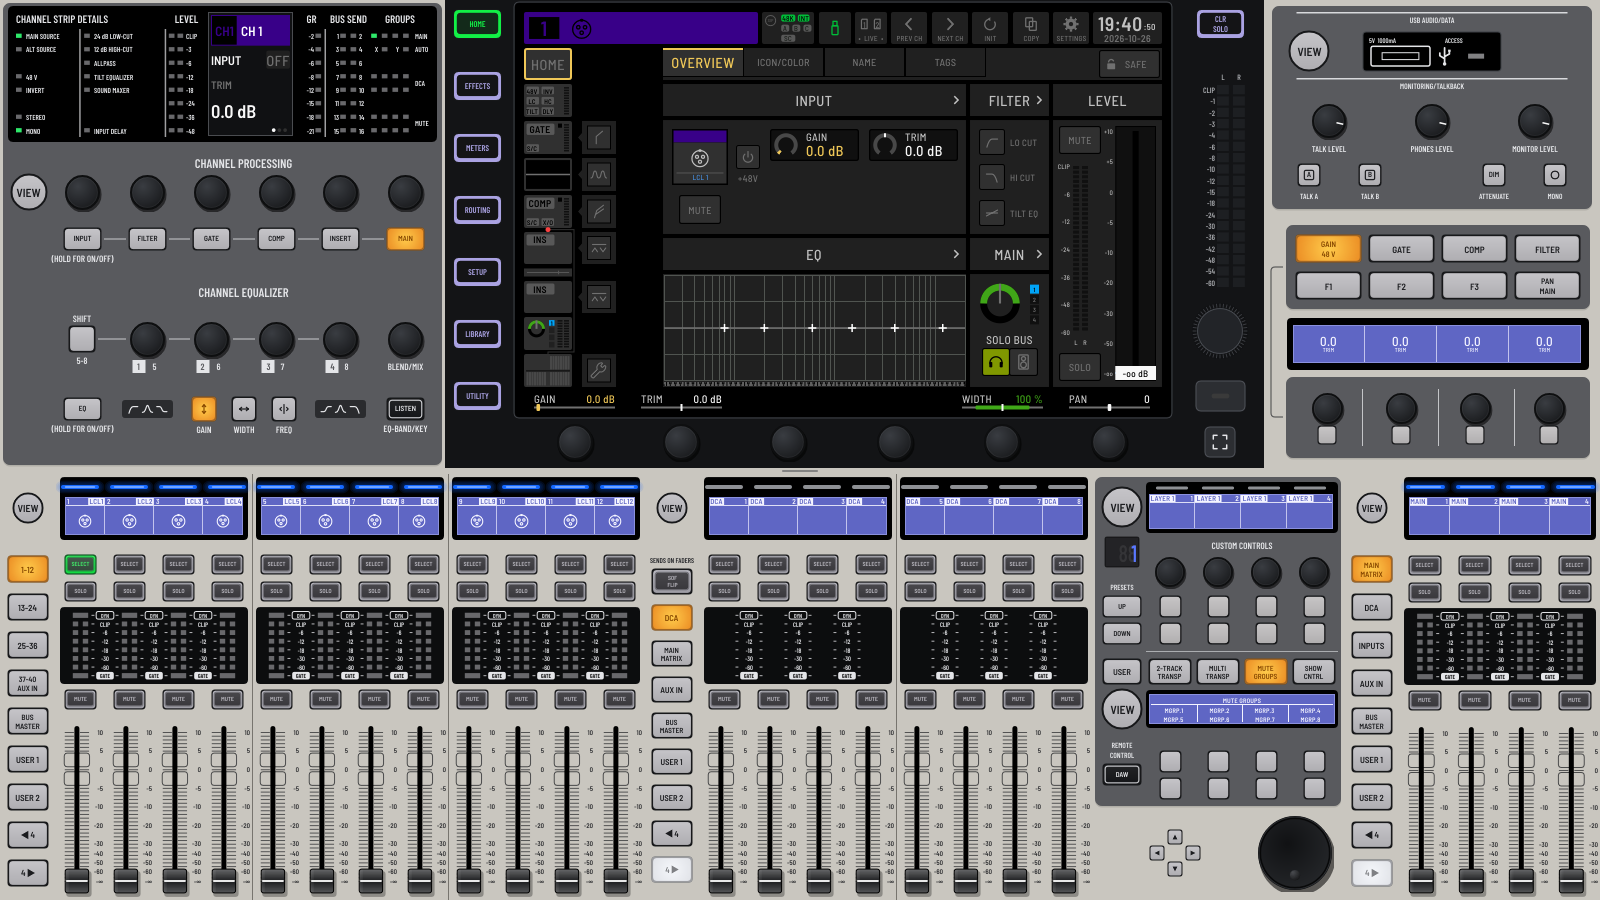
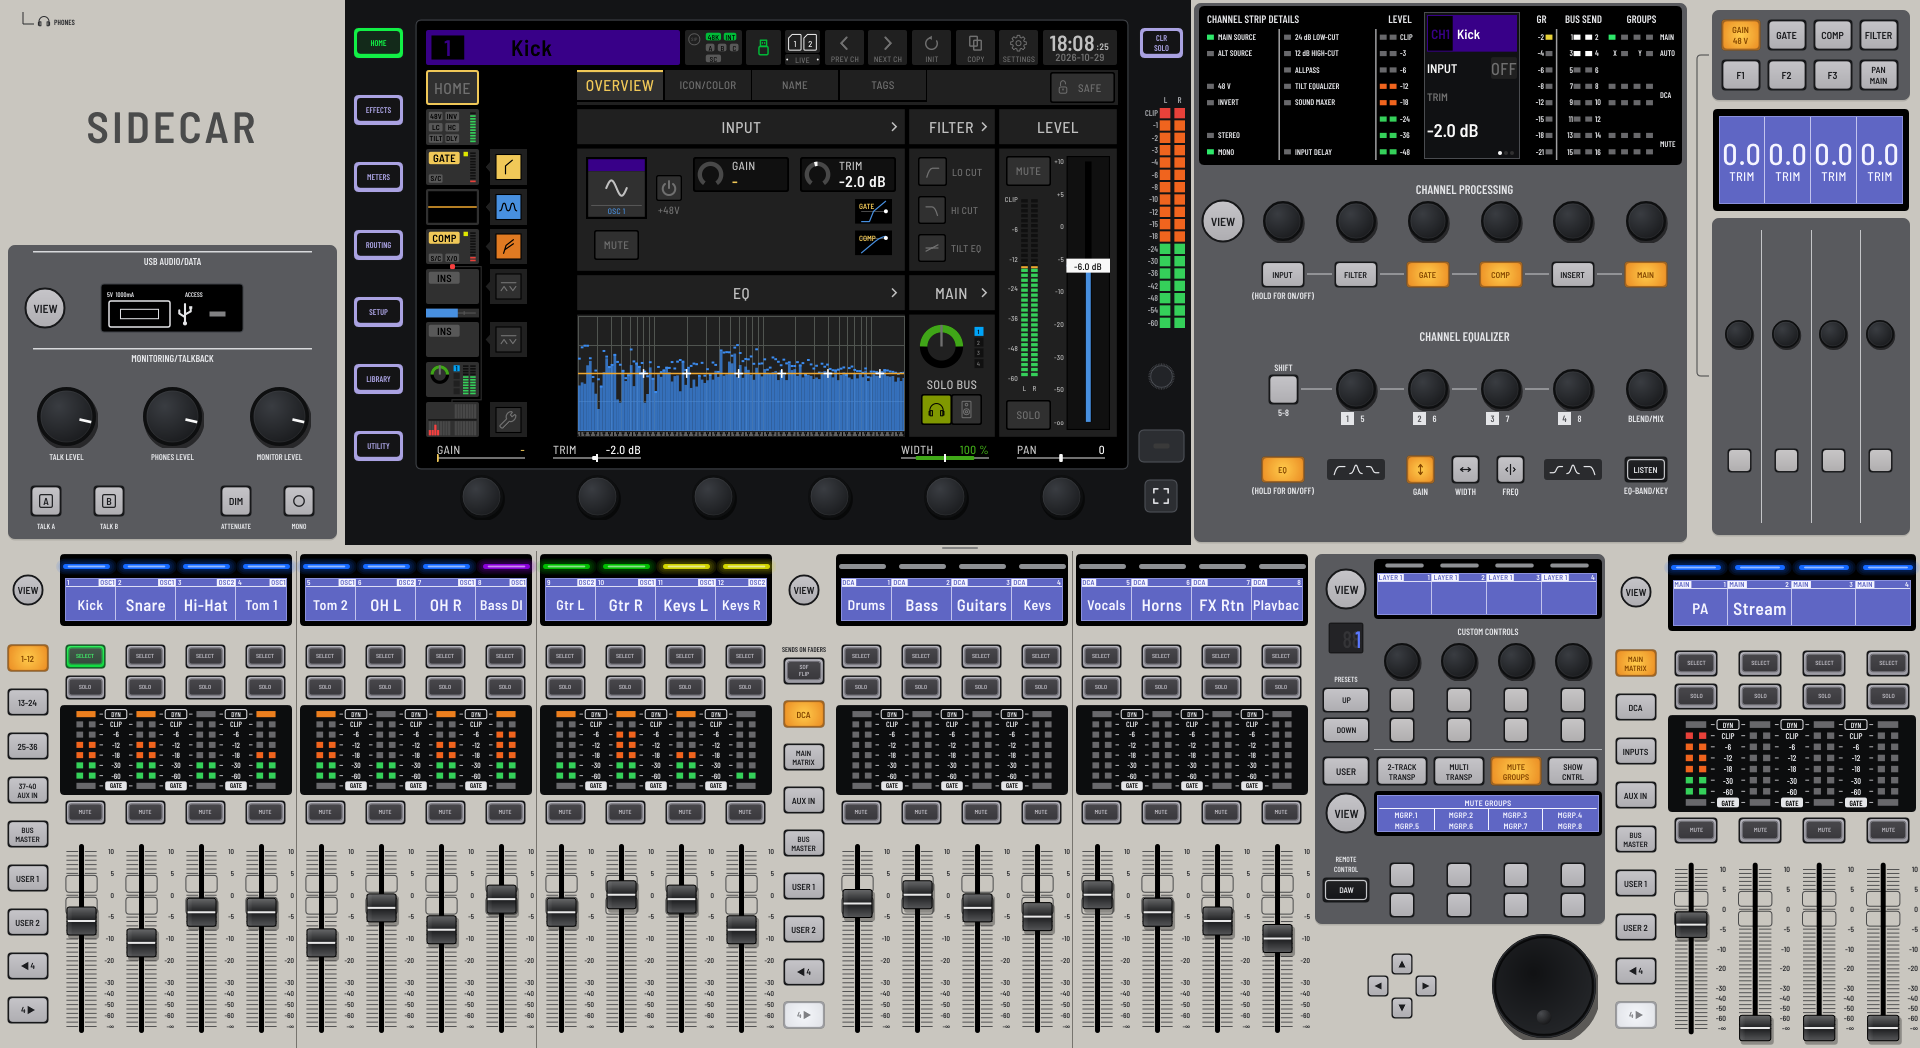
Release 0.1.6: the WING COMPACT, the effects audit with live meters, a new README
Version 0.1.6 and its changelog section. The README gains a Use cases
section (small shows, learning the WING, preparing shows, a second mixer,
recording and virtual soundcheck, plugins and outboard gear, remote
mixing), and the status and feature list now cover the COMPACT model,
live FX meters, routing, custom controls and the editor's import.

New screenshots, taken from the app with a signal running: the
full-size console, the COMPACT, METERS, the EFFECTS rack, PSYCHO BASS
with its VU needles moving, the recorder recording 40 channels, and the
multitrack editor.

Fixed on the way: after RECORD ALL CHANNELS, the editor's track headers
showed a channel's source as a raw number ("IN 196609") whenever it
wasn't a local input. They now label it as ROUTING does ("IN OSC 1").

Claude-Session: https://claude.ai/code/session_01R3WGAVfZA5D9yx9yYMFojE

diff --git a/src/ui/daw/DawTracks.cpp b/src/ui/daw/DawTracks.cpp
@@ -1,4 +1,5 @@
 #include "ui/daw/DawTracks.h"
+#include "ui/RoutingGroups.h"
 
 namespace livedaw::ui
 {
@@ -127,7 +128,8 @@ void DawTrackHeader::paint (juce::Graphics& g)
     paintKey (g, soloKey, "S", t->solo, DawColours::solo);
 
     const bool hardware = t->source.kind == Recorder::Source::Kind::HardwareInput;
-    paintField (g, sourceKey, hardware ? "IN" : "SRC", hardware ? juce::String (t->source.port + 1) : daw::describeSource (t->source));
+    // An input is a source of the console's table (RECORD ALL CHANNELS takes each channel's): "LCL 3", "OSC 1".
+    paintField (g, sourceKey, hardware ? "IN" : "SRC", hardware ? routing::sourceLabel (t->source.port) : daw::describeSource (t->source));
     const juce::String pb = t->stereo ? juce::String (t->playChannel + 1) + "-" + juce::String (t->playChannel + 2) : juce::String (t->playChannel + 1);
     paintField (g, playbackKey, "PB", pb);
     paintField (g, gainKey, "GAIN", t->gainDb <= -60.0f ? juce::String ("-inf") : (t->gainDb > 0.0f ? "+" : "") + juce::String (t->gainDb, 1));

diff --git a/README.md b/README.md
@@ -15,22 +15,60 @@ anything can be sent to any hardware output. It runs on Windows, macOS and Linux
 > SETUP > GENERAL > ABOUT, lists the differences). Don't rely on it for a critical
 > live show without testing it thoroughly first.
 
-**Status: v0.1.5 beta**, the fifth public beta: the third round of matching a real WING, from its factory parameter dump and screenshots. Expect rough edges, and please
-[report what you find](#reporting-problems).
+**Status: v0.1.6 beta**, the sixth public beta: the WING COMPACT as a second console
+model, every effect measured against its WING original with live meters on its page,
+and the routing, monitoring and custom controls checked against WING Edit 3.3.4 and
+the WING manual. Expect rough edges, and please [report what you find](#reporting-problems).
+
+![The full-size console: the HOME screen of a channel, the channel strip, fader sections with the input list on the left and DCAs in the middle, all metering a signal](docs/images/console.png)
+
+## Use cases
+
+- **A console for small shows and rehearsals.** A laptop and a multichannel audio
+  interface become a full mixer: a band's rehearsal room, a church service, a school
+  play, a conference room or a club night, with the WING's processing on every
+  channel and its effects rack.
+- **Learning the WING, and training a team.** The screens, layers, keys and workflow
+  are the WING's, full-size or COMPACT, so engineers and volunteers can practise on
+  any computer, with the **Virtual (no hardware)** device and the WING's oscillator
+  when there is no interface at hand.
+- **Preparing a show before the gig.** Patch, name, colour, set up processing,
+  effects, scenes and custom controls at home; WING Edit and other WING remote apps
+  connect to Sidecar as they would to the console.
+- **A second mixer next to the main console.** Monitors, a broadcast or livestream
+  mix, an overflow room or a recording mix, fed from a split of the stage inputs.
+- **Multitrack recording and virtual soundcheck.** Record every channel of a show,
+  play it back through the console the next day to refine the mix without the band,
+  and edit, import and export the tracks in the built-in multitrack editor.
+- **Mixing with your plugins and your outboard gear.** VST3, AU and LV2 plugins sit
+  in the FX rack next to the WING's effects, and the EXTERNAL effect puts a hardware
+  compressor or reverb on an insert through the interface's outputs and inputs.
+- **Remote mixing from a tablet or phone.** The web remote shows the console's
+  screen in a browser on the network; MIDI controllers and Mackie Control / HUI
+  surfaces drive it too.
+
+Sidecar is a hobby project, not a replacement for a tested console: try it well before
+relying on it at a show (see [Known limitations](#known-limitations)).
 
 ## Screenshots
 
-![The Sidecar console: fader sections, the main display with the HOME screen, the channel strip and monitoring sections](docs/images/console.png)
-
-![An FX rack device (Vintage Plate) on its faceplate, display-only mode](docs/images/effects.png)
-
-![The multitrack recorder screen after RECORD ALL CHANNELS](docs/images/recorder.png)
+| | |
+|---|---|
+| ![The WING COMPACT model: the black surface with one 12-fader section, the main display, the BUS / DCA / MAIN MATRIX / USER keys and the monitoring section](docs/images/compact.png) | ![The METERS screen: channels, buses, DCAs, mains and matrices metering a signal](docs/images/meters.png) |
+| **WING COMPACT**: SETUP > GENERAL > CONSOLE MODEL | **METERS**: every strip at a glance |
+| ![The EFFECTS rack: reverbs, delay and chorus in the premium slots, COMBINATOR, PSYCHO BASS, MASTER and LIMITER in the standard slots, two of them inserted on channels](docs/images/fx-rack.png) | ![PSYCHO BASS on its faceplate, inserted on the bass DI, its VU needles moving with the signal](docs/images/effects.png) |
+| **EFFECTS**: the WING's 16-slot rack | **Faceplates** with live meters |
+| ![The recorder screen recording 40 channels, with the input levels and the tracks armed](docs/images/recorder.png) | ![The multitrack editor with the recording: one track per channel, waveforms in the channels' colours](docs/images/editor.png) |
+| **Recorder**: RECORD ALL CHANNELS | **Multitrack editor** (Ctrl+E) |
 
 ## What it does
 
 - **A WING console:** 40 input channels, 8 aux, 16 stereo buses, 4 stereo mains,
   8 matrices, 16 DCAs, 8 mute groups and 16 FX slots. More channels and buses can be
   added; the limit is your CPU.
+- **Two console models:** the full-size WING (grey or black) and the **WING COMPACT**
+  (one 12-fader section with its own BUS, DCA, MAIN / MATRIX and USER keys, the
+  VIRTUAL section and its custom control sets), chosen in SETUP > GENERAL > CONSOLE.
 - **The WING's processing**, in its order and with its process orders: input (trim,
   polarity, delay), filters, a gate and a dynamics slot with the WING's 32 dynamics
   models, the WING EQ and its analog EQ models, two inserts and sends with all of the
@@ -38,23 +76,34 @@ anything can be sent to any hardware output. It runs on Windows, macOS and Linux
 - **An FX rack** with the WING's devices: 26 premium effects (reverbs, delays,
   chorus, pitch...), 32 standard effects (EQs, dynamics, amps, modulation...), 5
   channel strips, VST3, AU (macOS) and LV2 (Linux) plugins, and the WING's EXTERNAL
-  effect: outboard gear inserted through your interface's outputs and inputs.
+  effect: outboard gear inserted through your interface's outputs and inputs. Each
+  device has its faceplate, and its meters, needles, gain reduction and spectrum move
+  with the signal.
 - **The WING surface on screen:** three fader sections with layers, user layers and
-  spill, the main display with the WING's screens (HOME, EFFECTS, METERS, ROUTING,
-  SETUP, LIBRARY, VIEW, UTILITY), the channel strip, monitoring, 4-Channel and custom
-  control sections. It resizes to any screen; the display can be shown on its own.
-- **Shows, scenes and snippets** with recall scope, recall safes, fades and presets;
-  scenes and snippets can be exported to files and imported into another show.
+  spill (DCA, bus, main and matrix), the main display with the WING's screens (HOME,
+  EFFECTS, METERS, ROUTING, SETUP, LIBRARY, VIEW, UTILITY), the channel strip,
+  monitoring, 4-Channel and custom control sections, with the WING's meter ballistics.
+  It resizes to any screen; the display can be shown on its own.
+- **The WING's routing:** any source to any channel or output, inputs straight to
+  outputs, buses, mains and matrices as channel sources, user signals and user
+  patches, bus to bus, and live meters on the ROUTING tiles.
+- **Shows, scenes and snippets** with recall scope, recall safes, global safes, fades,
+  presets and STARTUP files; scenes and snippets can be exported to files and imported
+  into another show.
 - **Multitrack recording** of up to 64 tracks, playback into the console (virtual
-  soundcheck) and a built-in multitrack editor; the WING's **2/4-track USB recorder
-  and player** using a folder on disk.
+  soundcheck) and a built-in multitrack editor that imports audio files (copied into
+  the project or kept where they are) and exports its tracks as audio files; the WING's
+  **2/4-track USB recorder and player** using a folder on disk.
 - **Monitoring and talkback:** phones and speakers paths with their own sources, EQ,
   delay and limiter, and two talk keys. The WING's **oscillator** (sine, pink and white
   noise) is a source group to patch to channels for line checks.
-- **MIDI remote control and DAW remote control** (Mackie Control / HUI) as on the WING.
+- **Custom controls** with the WING's functions (fader start, inserts, DAW layer,
+  tap tempo, mute groups, scenes, the recorders...), **MIDI remote control** and **DAW
+  remote control** (Mackie Control / HUI) as on the WING.
 - **WING remote apps and files (experimental):** Sidecar answers the WING's network
-  protocols (discovery, OSC and the native protocol), so WING remote software can
-  find and drive it, and it imports and exports WING snapshots.
+  protocols (discovery, OSC and the native protocol) and reports itself as a full-size
+  WING or a COMPACT, so WING remote software such as WING Edit can find and drive it;
+  it imports and exports WING snapshots.
 - **Web remote:** open the console's screen in a browser on a tablet, phone or another
   computer on the network and control it from there (optional PIN).
 - **Built for stability:** a realtime engine in Rust with no allocations or locks on

diff --git a/CHANGELOG.md b/CHANGELOG.md
@@ -5,6 +5,18 @@ All notable changes to Sidecar are listed here. Versions follow
 
 ## [Unreleased]
 
+## [0.1.6] - beta
+
+The fourth round of matching Sidecar to a real WING, cross-checked against WING Edit
+3.3.4, the WING manual (2025-10-20) and the remote protocols document, with answers
+from an owner of a full-size WING and a WING COMPACT: the WING COMPACT is a second
+console model with its own surface, keys and custom control sets; every effect was
+measured against its original, and its page's meters, needles, gain reduction and
+spectrum move with the signal; the routing gains user signals and patches, inputs
+straight to outputs and live meters; meters use the WING's ballistics; the EXTERNAL
+effect inserts outboard gear; the multitrack editor can keep imported files where
+they are. The README has use cases and new screenshots.
+
 ### Added
 
 - **The meters on the reverb, delay, modulation and pitch pages move with the
@@ -520,6 +532,9 @@ All notable changes to Sidecar are listed here. Versions follow
   channel).
 ### Fixed
 
+- The multitrack editor's tracks showed a raw source number as their input after
+  RECORD ALL CHANNELS from a channel patched to anything but a local input ("IN
+  196609"); they show the source as ROUTING labels it ("IN OSC 1", "IN LCL 3").
 - On Windows, stopping the WING remote (or quitting) with WING Edit or another
   Native client connected took two minutes: a shutdown doesn't end a blocked
   receive there. The Native reader on Windows now doesn't block and looks for
